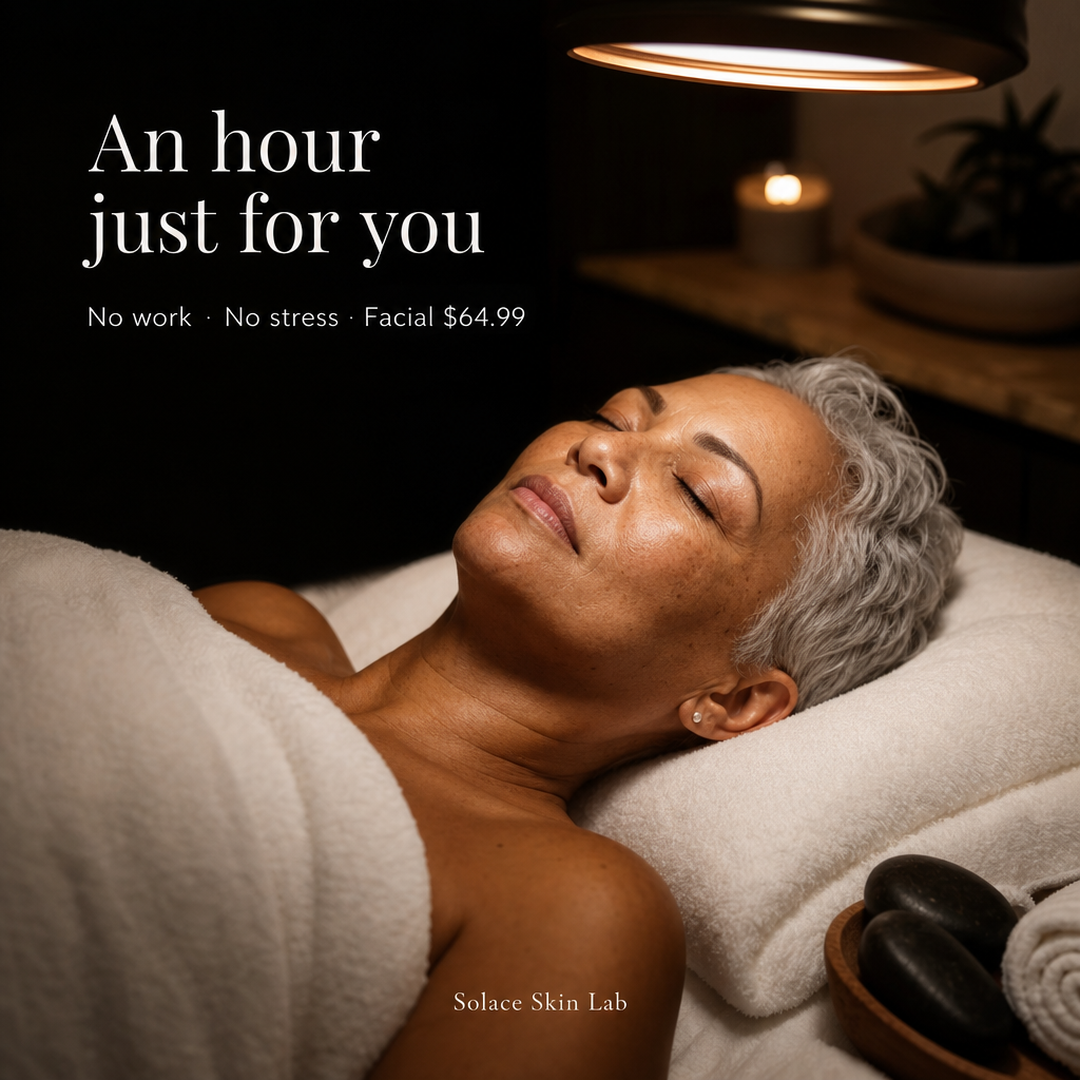
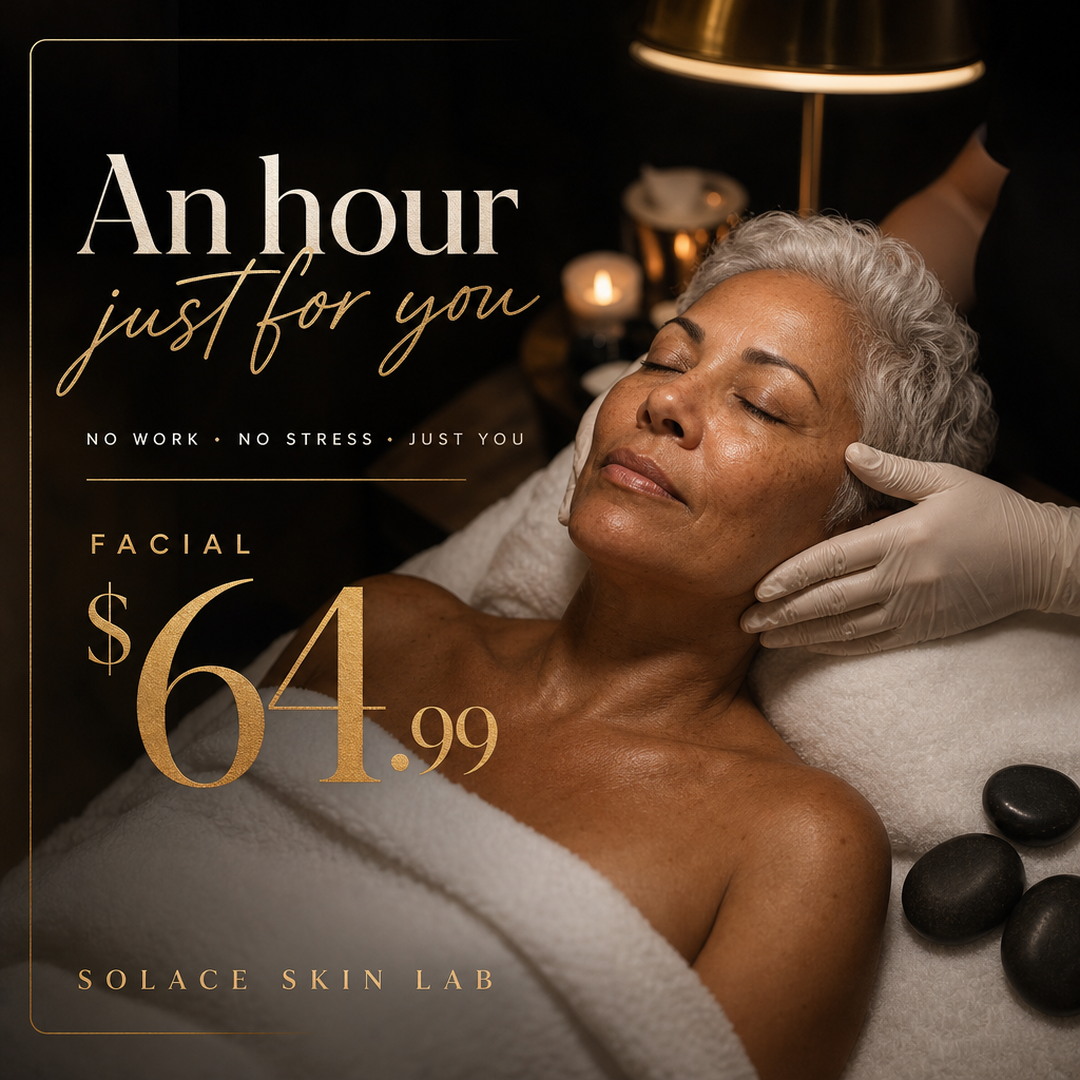
Oct-Nov: designed typography v2 (A editorial / B promo), QA fixes

diff --git a/oct-nov-2026/gen_v2.py b/oct-nov-2026/gen_v2.py
@@ -1,0 +1,92 @@
+"""v2 batch: designed typography (B = luxury promo poster for price posts, A = editorial magazine for the rest).
+Usage: python3 gen_v2.py all | python3 gen_v2.py 3 7
+"""
+import sys, json, time, subprocess, shutil, urllib.request
+from pathlib import Path
+sys.path.insert(0, str(Path(__file__).parent))
+import gen, pilot_type as pt
+
+ROOT = gen.ROOT; OUT = ROOT / "images"
+# day: (style, headline, script accent, supporting line, price label, price)
+C = {
+ 2: ("B", "Your skin deserves", "a little love", "PROFESSIONAL FACIAL · DEEP CLEANSE · GLOW", "FACIAL", "$64.99"),
+ 3: ("A", "Sunday", "reset", "HYDRATE · SKINCARE · REST", None, None),
+ 4: ("A", "Microneedling", "next level", "SMOOTHER-LOOKING TEXTURE STARTS HERE", None, None),
+ 6: ("B", "When was your", "last facial?", "TAKE AN HOUR FOR YOURSELF", "PROFESSIONAL FACIAL", "$64.99"),
+ 7: ("A", "More products ≠", "better skin", "KNOW WHAT YOUR SKIN ACTUALLY NEEDS", None, None),
+ 8: ("B", "An hour", "just for you", "NO WORK · NO STRESS · JUST YOU", "FACIAL", "$64.99"),
+ 9: ("A", "Be honest", "just one thing", "TEXTURE · LINES · SPOTS · SCARS · PORES", None, None),
+ 10: ("A", "Let's talk BOTOX®", "still you", "A REFRESHED LOOK — STILL LOOKING LIKE YOURSELF", None, None),
+ 11: ("A", "Okay…", "be honest", "HOW MANY PRODUCTS ARE IN YOUR ROUTINE?", None, None),
+ 12: ("B", "2 Facials", "for two", "TUESDAYS ONLY · BRING YOUR MOM", "BOTH FOR", "$64.99"),
+ 13: ("B", "Your skin", "called", "IT WANTS A FACIAL", "ONLY", "$64.99"),
+ 14: ("A", "Perfect skin isn't the goal.", "Confidence is.", "THAT'S SOLACE", None, None),
+ 15: ("B", "This is", "your sign", "STOP PUTTING IT OFF", "FACIAL", "$64.99"),
+ 16: ("A", "Happy", "Halloween", "DON'T SLEEP IN YOUR MAKEUP", None, None),
+ 17: ("A", "Why does everyone talk about", "microneedling?", "DISCOVER IT AT SOLACE", None, None),
+ 18: ("B", "Plans", "this week?", "WE'VE GOT A BETTER ONE", "FACIAL", "$64.99"),
+ 19: ("B", "2 Facials", "for two", "TUESDAYS ONLY · BRING YOUR SISTER", "BOTH FOR", "$64.99"),
+ 20: ("B", "Tag someone who", "needs a facial", "BESTIE · MOM · SISTER · BOYFRIEND", "FACIALS", "$64.99"),
+ 21: ("A", "The Solace", "experience", "WE LISTEN · WE PLAN WITH YOU", None, None),
+ 22: ("A", "This", "or that?", "MORNING SKINCARE OR NIGHT SKINCARE?", None, None),
+ 23: ("B", "Weekend glow", "activated", "FACIAL · SKINCARE · CONFIDENCE", "FACIAL", "$64.99"),
+ 24: ("A", "Sunday", "self-care", "REST · UNPLUG · GLOW", None, None),
+ 25: ("A", "How many units", "do I need?", "YOUR INJECTOR EVALUATES YOU", None, None),
+ 26: ("B", "2 Facials", "for two", "TUESDAYS ONLY · BRING YOUR PARTNER", "BOTH FOR", "$64.99"),
+ 27: ("A", "POV:", "you work at Solace", "SKINCARE-ADDICTED SINCE DAY ONE", None, None),
+ 28: ("A", "30 days from now will come", "either way", "OR YOU CAN SIMPLY START", None, None),
+ 29: ("A", "El Paso,", "thank you", "WE'RE JUST GETTING STARTED", None, None),
+ 30: ("B", "Stop thinking about it.", "Start.", "FACIALS · MICRONEEDLING · BOTOX® · SKINCARE", "FACIALS", "$64.99"),
+}
+
+EXTRA = {
+ 2: "CRITICAL SPELLING: the script reads 'a little love' — l-i-t-t-l-e, exactly TWO letter t.",
+ 24: "CRITICAL SPELLING: the headline reads 'Sunday' — S-u-n-d-a-y, six letters, including the letter a.",
+ 25: "CRITICAL: the script reads exactly 'do I need?' ending with ONLY a question mark, no period.",
+ 28: "CRITICAL: ALL text sits in an empty dark area of the frame and is NEVER covered by the person; every letter of 'from now' must be fully visible. This post has NO price: do NOT render any price, number other than 30, dollar sign or the word PRICE.",
+ 12: "Hands are not visible in the frame.", 19: "Hands are not visible in the frame.",
+ 20: "The client's hands are out of frame; the single gloved hand is anatomically correct with five fingers.",
+}
+
+def prompt(day):
+    st, h, s, sup, lab, price = C[day]; p = gen.posts[day]
+    lines = [f'HEADLINE (serif): "{h}"', f'SCRIPT ACCENT (champagne-gold handwritten script, layered with the headline): "{s}"',
+             f'SUPPORTING LINE (small tracked caps): "{sup}"']
+    if price:
+        lines.append(f'PRICE LABEL (tiny tracked caps): "{lab}"   PRICE: "{price}"')
+    lines.append('BRAND (small tracked caps, bottom): "SOLACE SKIN LAB"')
+    crit = []
+    if price:
+        crit.append("CRITICAL: the price is SIXTY-FOUR dollars and ninety-nine cents, rendered exactly '$64.99'.")
+    if "2 Facials" in h:
+        crit.append("CRITICAL: the two people MUST be two clearly DIFFERENT individuals — different faces, hair, skin tone and age. Never twins or a duplicated/mirrored face.")
+    if "®" in h + sup:
+        crit.append("Render ® small and raised right after BOTOX.")
+    if day in EXTRA: crit.append(EXTRA[day])
+    if "≠" in h:
+        crit.append("Render the not-equal sign ≠ correctly.")
+    return "\n".join([pt.BASE, pt.STYLES[st], pt.RULES, "", "SCENE: " + p["imageScene"], "",
+                      "EXACT TEXT IN IMAGE:", *lines, *crit, "No other text anywhere in the image."])
+
+def run(day):
+    f = OUT / f"day{day:02d}.png"
+    for attempt in range(3):
+        try:
+            res = gen.call(prompt(day)); url = res["images"][0]["url"]; raw = str(f) + ".raw.png"
+            urllib.request.urlretrieve(url, raw)
+            subprocess.run(["ffmpeg", "-y", "-loglevel", "error", "-i", raw, "-vf", "scale=1080:1080:flags=lanczos",
+                            "-frames:v", "1", str(f) + ".tmp.png"], check=True)
+            shutil.move(str(f) + ".tmp.png", f); Path(raw).unlink()
+            with open(gen.LOG, "a") as lg:
+                lg.write(json.dumps({"day": day, "v": 2, "style": C[day][0], "model": "openai/gpt-image-2",
+                                     "provider": "fal.run (own FAL_KEY)", "quality": "medium", "src": url, "ts": time.time()}) + "\n")
+            print(f"day{day:02d} OK {C[day][0]}", flush=True); return True
+        except Exception as e:
+            print(f"day{day:02d} attempt {attempt+1}: {e}", flush=True); time.sleep(6)
+    return False
+
+if __name__ == "__main__":
+    a = sys.argv[1:]; days = sorted(C) if a == ["all"] else [int(x) for x in a]
+    from concurrent.futures import ThreadPoolExecutor
+    with ThreadPoolExecutor(5) as ex: res = list(ex.map(run, days))
+    print(f"RESUMEN: {sum(res)}/{len(days)}")
